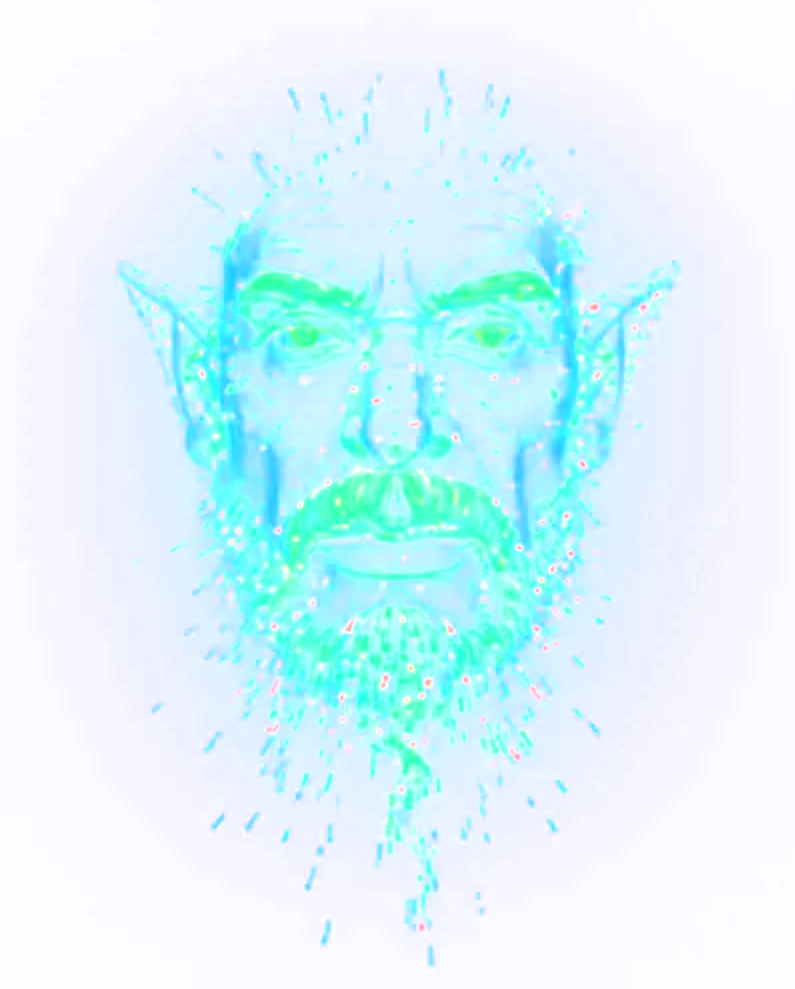
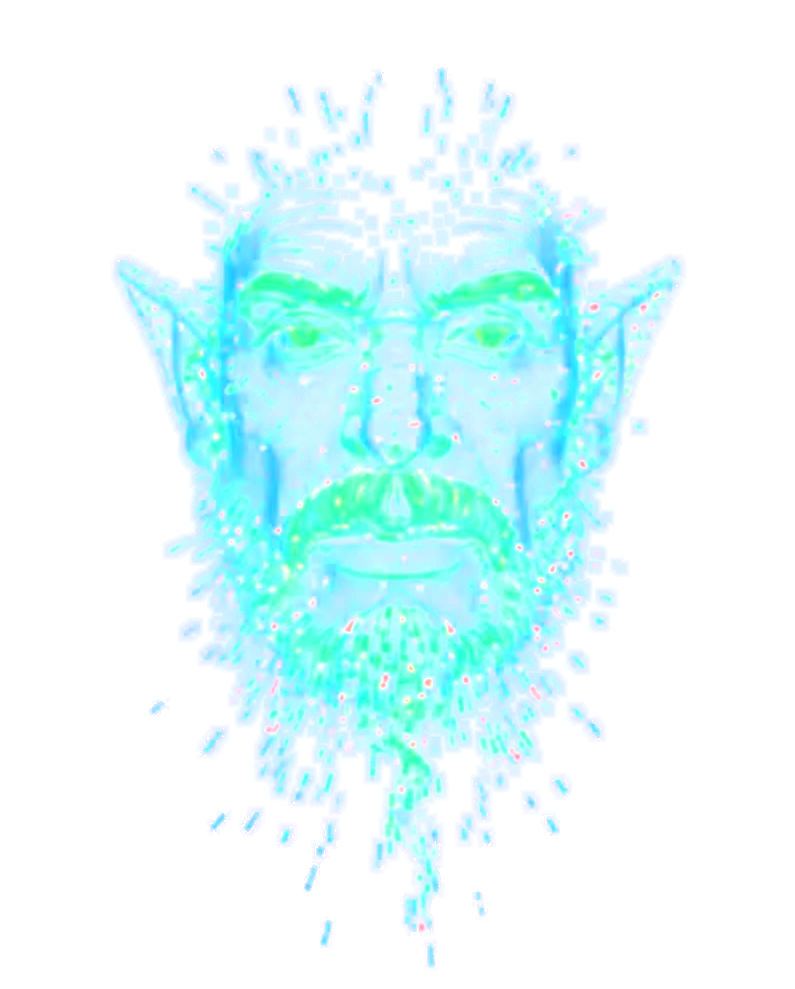
feat(face): the face carries no field behind it (366)
The shipped picture keeps a flat blue field under the head: every pixel of its
footprint carried a little light, so the block read as a rectangle on the rail's
plane. Re-cut once in the picture, with nothing keyed at build time and nothing
keyed at runtime: the field is nothing, the head keeps its own glow within a cell
of its edge, and the margin it occupied stays as nothing rather than trimmed, so
the footprint and every fact the rail lays are the ones they were.

diff --git a/crates/sindri/tests/pictures.rs b/crates/sindri/tests/pictures.rs
@@ -66,6 +66,30 @@ fn boundary_is_clear(drawn: &RgbaImage) -> bool {
     top_and_bottom && sides
 }
 
+/// The alpha from which a pixel is the figure the picture draws rather than the plate under it.
+const HEAD: u8 = 64;
+
+/// The columns and rows the head stands at: its left, top, right and bottom, or nothing at all
+/// when the picture lights no figure of its own.
+fn head(drawn: &RgbaImage) -> Option<(u32, u32, u32, u32)> {
+    let (width, height) = drawn.dimensions();
+    let mut bounds: Option<(u32, u32, u32, u32)> = None;
+    for y in 0..height {
+        for x in 0..width {
+            if drawn.get_pixel(x, y)[3] < HEAD {
+                continue;
+            }
+            bounds = Some(match bounds {
+                None => (x, y, x, y),
+                Some((left, top, right, bottom)) => {
+                    (left.min(x), top.min(y), right.max(x), bottom.max(y))
+                }
+            });
+        }
+    }
+    bounds
+}
+
 #[test]
 fn a_face_that_travels_in_the_binary_is_measured_from_its_own_header() {
     let measured = face::measure(Ceiling::across(80), &carried(true))
@@ -135,6 +159,61 @@ fn a_decoded_picture_is_transparent_on_every_side_of_its_footprint() {
         face.pixels().any(|pixel| pixel[3] > 0),
         "and the picture still carries light inside that boundary"
     );
+}
+
+#[test]
+fn a_face_made_into_the_footprint_the_rail_gives_it_carries_its_light_in_the_head_alone() {
+    let rail = face::over_rail(Rail::columns(SCREEN.0), &carried(true))
+        .expect("a terminal that places pictures is given the face");
+    let whole = face::measure(Ceiling::across(80), &carried(true))
+        .expect("a terminal that places pictures is given the face");
+
+    for measured in [rail, whole] {
+        let drawn = measured
+            .rasterise(cell())
+            .expect("the face travels in the binary, so it decodes");
+        let (width, height) = drawn.dimensions();
+        let (left, top, right, bottom) =
+            head(&drawn).expect("the picture still keeps light inside the head");
+
+        for y in 0..height {
+            for x in 0..width {
+                if drawn.get_pixel(x, y)[3] == 0 {
+                    continue;
+                }
+                assert!(
+                    x + cell().width() >= left
+                        && x <= right + cell().width()
+                        && y + cell().height() >= top
+                        && y <= bottom + cell().height(),
+                    "the light at column {x} of row {y} stands more than a cell outside the head, \
+                     and a glow is a glow rather than the field the picture was cut from"
+                );
+            }
+        }
+
+        for y in 0..top.saturating_sub(cell().height()) {
+            for x in 0..width {
+                assert!(
+                    drawn.get_pixel(x, y)[3] == 0,
+                    "the row above the head carries light at column {x}, and the band plane is \
+                     what the frame has there"
+                );
+            }
+        }
+
+        let below = right + cell().width() + 1..width;
+        let beside = (0..left.saturating_sub(cell().width())).chain(below);
+        for x in beside {
+            for y in 0..height {
+                assert!(
+                    drawn.get_pixel(x, y)[3] == 0,
+                    "the column beside the head carries light at row {y}, and the band plane is \
+                     what the frame has there"
+                );
+            }
+        }
+    }
 }
 
 #[test]
